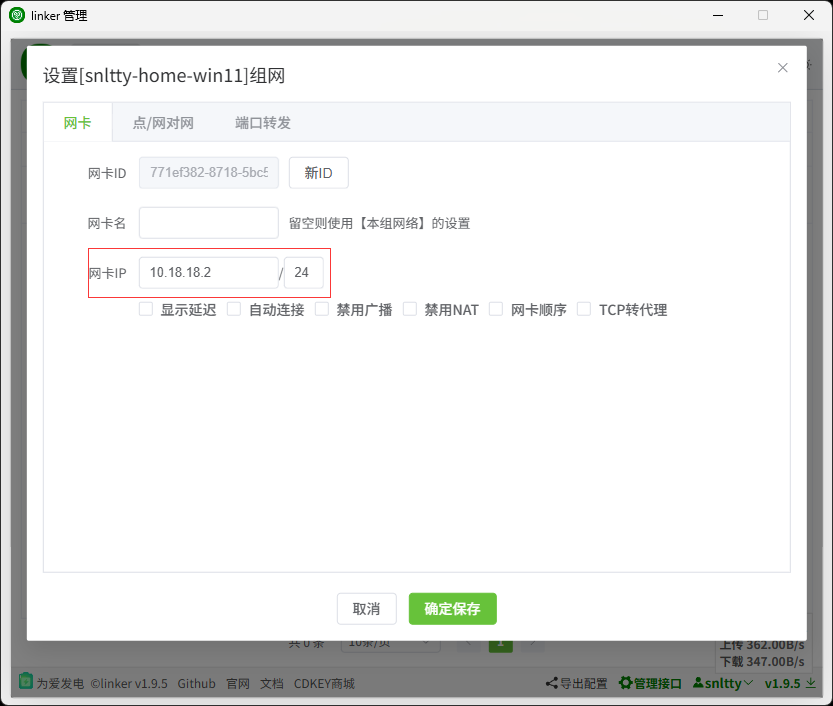
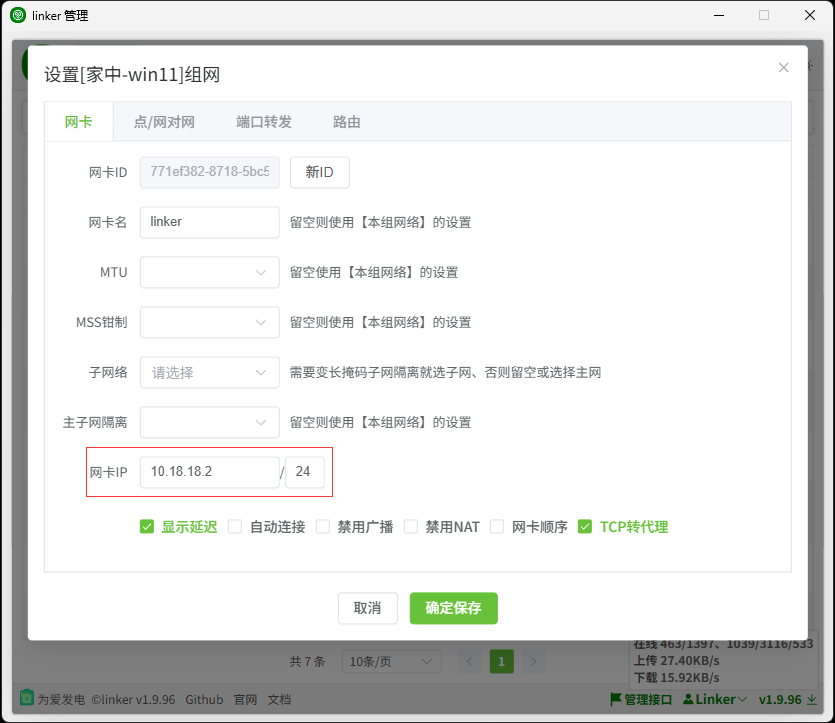
1.9.96

diff --git a/src/linker.web/src/views/components/tuntap/TuntapLease.vue b/src/linker.web/src/views/components/tuntap/TuntapLease.vue
@@ -13,7 +13,7 @@
                 <el-form-item label="MTU" prop="MTU">
                     <el-row class="w-100">
                         <el-col :span="10">
-                            <el-select v-model="state.ruleForm.Mtu" class="w-100">
+                            <el-select v-model="state.ruleForm.Mtu" class="w-100" :disabled="state.ruleForm.IP == '0.0.0.0'">
                                 <el-option :value="item.value" :label="item.label" v-for="(item,index) in state.mtus"></el-option>
                             </el-select>
                         </el-col>
@@ -23,7 +23,7 @@
                 <el-form-item label="MSS钳制" prop="MssFix">
                     <el-row class="w-100">
                         <el-col :span="10">
-                            <el-select v-model="state.ruleForm.MssFix" class="w-100">
+                            <el-select v-model="state.ruleForm.MssFix" class="w-100" :disabled="state.ruleForm.IP == '0.0.0.0'">
                                 <el-option :value="item.value" :label="item.label" v-for="(item,index) in state.msss"></el-option>
                             </el-select>
                         </el-col>
@@ -33,11 +33,11 @@
                 <el-form-item label="网络号" prop="IP">
                     <el-row class="w-100">
                         <el-col :span="13">
-                            <el-input v-trim v-model="state.ruleForm.IP" @change="handlePrefixLengthChange" />
+                            <el-input v-trim v-model="state.ruleForm.IP" :disabled="state.disabled" @change="handlePrefixLengthChange" />
                         </el-col>
                         <el-col :span="1" class="t-c">/</el-col>
                         <el-col :span="3">
-                            <el-input v-trim @change="handlePrefixLengthChange" v-model="state.ruleForm.PrefixLength" />
+                            <el-input v-trim @change="handlePrefixLengthChange" :disabled="state.disabled" v-model="state.ruleForm.PrefixLength" />
                         </el-col>
                         <el-col :span="1" class="t-c"></el-col>
                         <el-col :span="6">
@@ -58,7 +58,7 @@
                     </div>
                 </el-form-item>
                 <el-form-item label="主子网隔离" prop="VlsmStatus">
-                    <el-select v-model="state.ruleForm.VlsmStatus" class="w-14">
+                    <el-select v-model="state.ruleForm.VlsmStatus" class="w-14" :disabled="state.ruleForm.IP == '0.0.0.0'">
                         <el-option :value="item.value" :label="item.label" v-for="(item,index) in state.vlsms"></el-option>
                     </el-select>
                 </el-form-item>
@@ -67,7 +67,7 @@
                         <template v-for="(item,index) in state.ruleForm.Subs">
                             <el-row class="w-100 sub-item">
                                 <el-col :span="4" class="pdr-10">
-                                    <el-input v-trim v-model="item.Name"/>
+                                    <el-input v-trim v-model="item.Name" :disabled="state.ruleForm.IP == '0.0.0.0'"/>
                                 </el-col>
                                 <el-col :span="7">
                                     <el-input v-trim v-model="item.IP" disabled/>
@@ -77,9 +77,11 @@
                                     <el-input v-trim v-model="item.PrefixLength" disabled/>
                                 </el-col>
                                 <el-col :span="9" class="t-r">
-                                    <el-button type="danger" @click="handleDelSub(index)"><el-icon><Delete></Delete></el-icon></el-button>
-                                    <el-button type="info" @click="handleEditSub(index)"><el-icon><Edit></Edit></el-icon></el-button>
-                                    <el-button type="primary" @click="handleAddSub(index)"><el-icon><Plus></Plus></el-icon></el-button>
+                                    <template v-if="state.ruleForm.IP != '0.0.0.0'">
+                                        <el-button type="danger" @click="handleDelSub(index)"><el-icon><Delete></Delete></el-icon></el-button>
+                                        <el-button type="info" @click="handleEditSub(index)"><el-icon><Edit></Edit></el-icon></el-button>
+                                        <el-button type="primary" @click="handleAddSub(index)"><el-icon><Plus></Plus></el-icon></el-button>
+                                    </template>
                                 </el-col>
                             </el-row>
                         </template>
@@ -101,8 +103,8 @@
     <el-dialog v-model="state.showEdit" append-to=".app-wrap" title="选择子网" top="1vh" width="440">
         <div>
             <div class="head t-c mgb-1">
-                <el-select  v-model="state.prefixLength" class="w-20 mgl-1" @change="handleSubChange">
-                    <el-option v-for="value in state.prefixLengths" :value="value.value" :label="`/${value.value}、每段 : ${value.length}个IP`"></el-option>
+                <el-select  v-model="state.prefixLength" class="w-20 mgl-1" @change="handleSubChange" :disabled="state.disabled">
+                    <el-option v-for="value in state.prefixLengths" :value="value.value" :label="value.label"></el-option>
                 </el-select>
             </div>
             <el-table :data="state.subs.list" size="small" border height="400">
@@ -132,7 +134,7 @@
 import {getNetwork,addNetwork,calcNetwork, calcSubNetwork } from '@/apis/tuntap';
 import { ElMessage, ElMessageBox } from 'element-plus';
 import { computed, onMounted, reactive, ref, watch } from 'vue';
-import { Delete, Plus,Refresh,Edit } from '@element-plus/icons-vue'
+import { Delete, Plus,Refresh,Edit, MessageBox } from '@element-plus/icons-vue'
 export default {
     props: ['modelValue'],
     emits: ['change','update:modelValue'],
@@ -142,6 +144,7 @@ export default {
         const ruleFormRef = ref(null);
         const state = reactive({
             show: true,
+            disabled:computed(()=>state.ruleForm.Subs.filter(c=>c.IP != '0.0.0.0').length > 0),
             ruleForm: {
                 Name:'',
                 IP:'0.0.0.0',
@@ -202,7 +205,12 @@ export default {
 
             showEdit: false,
             editIndex : -1,
-            prefixLengths: Array.from({ length: 17 }, (_, i) => { return {value:32-i,length:1<<(32-(32-i))} }),
+            prefixLengths: Array.from({ length: 17 }, (_, i) => { 
+                return {
+                    value:32-i,
+                    label:`/${32-i}、每段 : ${(1<<(32-(32-i)))}个IP`
+                } 
+            }),
             prefixLength:29,
             subs:{
                 list:computed(c=>{
@@ -233,7 +241,12 @@ export default {
                 state.ruleForm.IP = res.IP;
                 state.ruleForm.PrefixLength = res.PrefixLength;
                 if(res.Subs.length == 0){
-                    res.Subs = [{Name:'子网1',IP:'0.0.0.0',PrefixLength:24}];
+                    res.Subs = [{Name:'子网1',IP:'0.0.0.0',PrefixLength:29}];
+                }else{
+                    const sub = res.Subs.filter(c=>c.IP != '0.0.0.0')[0];
+                    if(sub){
+                        state.prefixLength = sub.PrefixLength;
+                    }
                 }
                 state.ruleForm.Subs = res.Subs;
                 state.ruleForm.Mtu = res.Mtu;
@@ -262,6 +275,19 @@ export default {
             })
         }
         const handleClear = ()=>{
+            ElMessageBox.confirm('确定要清空吗？', '提示', {
+                confirmButtonText: '确定',
+                cancelButtonText: '取消',
+                type: 'warning'
+            }).then(() => {
+                state.ruleForm.IP = '0.0.0.0';
+                state.ruleForm.PrefixLength = 24;
+                state.ruleForm.Subs = [{Name:'子网1',IP:'0.0.0.0',PrefixLength:29}];
+                _calcNetwork();
+            }).catch(() => {
+            });
+        
+            /*
             addNetwork({Name:'',IP:'0.0.0.0',PrefixLength:24,Subs:[]}).then(()=>{
                 ElMessage.success('已操作');
                 _getNetwork();
@@ -269,14 +295,15 @@ export default {
                 console.log(err);
                 ElMessage.error('操作失败');
             });
+            */
         }
 
         const handleAddSub = (index)=>{
-            state.ruleForm.Subs.splice(index+1,0,{Name:'子网'+(state.ruleForm.Subs.length+1),IP:'0.0.0.0',PrefixLength:24});
+            state.ruleForm.Subs.splice(index+1,0,{Name:'子网'+(state.ruleForm.Subs.length+1),IP:'0.0.0.0',PrefixLength:29});
         }
         const handleDelSub = (index)=>{
             if(state.ruleForm.Subs.length <= 1){
-                state.ruleForm.Subs = [{Name:'子网1',IP:'0.0.0.0',PrefixLength:24}];
+                state.ruleForm.Subs = [{Name:'子网1',IP:'0.0.0.0',PrefixLength:29}];
                 return;
             }
             ElMessageBox.confirm('确定要删除吗？', '提示', {

diff --git a/src/linker.web/src/views/components/tuntap/TuntapIP.vue b/src/linker.web/src/views/components/tuntap/TuntapIP.vue
@@ -175,6 +175,7 @@ export default {
             json.NetworkName = state.ruleForm.NetworkName;
             json.Mtu = state.ruleForm.Mtu;
             json.MssFix = state.ruleForm.MssFix;
+            json.VlsmStatus = state.ruleForm.VlsmStatus;
 
             return json;
         }

diff --git a/src/linker.messenger.tuntap/client/TuntapConfigTransfer.cs b/src/linker.messenger.tuntap/client/TuntapConfigTransfer.cs
@@ -21,7 +21,7 @@ namespace linker.messenger.tuntap.client
         public TuntapVlsmStatus VlsmStatus => Info.VlsmStatus == TuntapVlsmStatus.None ? networkInfo.VlsmStatus : Info.VlsmStatus;
         public byte PrefixLength => networkInfo.IP.Equals(IPAddress.Any) ? Info.PrefixLength : networkInfo.PrefixLength;
 
-        public int SubCount => networkInfo.Subs.Count;
+        public int SubCount => networkInfo.Subs.Count(c => IPAddress.Any.Equals(c.IP) == false);
 
         public LeaseInfo Network => networkInfo;
 

diff --git a/src/linker.messenger.tuntap/client/TuntapApiController.cs b/src/linker.messenger.tuntap/client/TuntapApiController.cs
@@ -170,8 +170,8 @@ namespace linker.messenger.tuntap.client
         /// <returns></returns>
         public async Task<bool> Update(ApiControllerParamsInfo param)
         {
-
             TuntapInfo info = param.Content.DeJson<TuntapInfo>();
+
             //更新自己的
             if (info.MachineId == signInClientStore.Id)
             {

diff --git a/src/linker.doc.web/docs/4、通信功能/4.0、虚拟网卡/4、变长子网.md b/src/linker.doc.web/docs/4、通信功能/4.0、虚拟网卡/4、变长子网.md
@@ -1,0 +1,37 @@
+---
+sidebar_position: 4
+slug: /exchange/tuntap/vlsm
+---
+
+# 4、变长子网
+
+:::tip[说明]
+
+如果你一个分组里有很多客户端，比如A、B、C、D、E、F等等，你希望分为例如ABC、DEF等多个组，然后ABC、DEF组内可以互相通信，但ABC无法和DEF通信，那么你可以使用变长子网
+
+:::
+
+:::tip[配置]
+
+配置自动获取IP
+
+![Docusaurus Plushie](./img/vlsm1.png)
+
+添加一些子网，然后点编辑，选择子网的网段
+
+![Docusaurus Plushie](./img/vlsm2.png)  
+
+默认是/29每段8个ip，你可以选择不同的段长度，然后选择子网
+
+![Docusaurus Plushie](./img/vlsm3.png)
+
+然后给客户端配置时选择子网
+
+![Docusaurus Plushie](./img/vlsm5.png)
+
+
+当然，如果你配置了子网，那么还可以选择主网的设备是否可以和子网的设备进行通信(各子网之间是隔离的)
+
+![Docusaurus Plushie](./img/vlsm4.png)
+
+:::

diff --git a/src/linker.doc.web/docs/4、通信功能/4.0、虚拟网卡/5、MSS钳制.md b/src/linker.doc.web/docs/4、通信功能/4.0、虚拟网卡/5、MSS钳制.md
@@ -1,0 +1,23 @@
+---
+sidebar_position: 5
+slug: /exchange/tuntap/mssfix
+---
+
+# 5、MSS钳制
+
+:::tip[说明]
+
+MSS Clamping
+
+一般出现在linux，比如 A、B 两个客户端，B配置点对网，A访问B下局域网内的设备，虽然linker配置了MTU可能是1420，但有可能B那边的某个网关的MTU更小，可能是1380，那数据1420数据包就有可能被丢弃，导致无法通信
+
+有两种办法
+
+1. 将linker客户端的MTU调小，比如1380
+2. 配置MSS Clamping，即MSS钳制，可以选择自动计算，也可以选择1380或更小的值
+
+可以在动态获取ip配置本组网络的配置，也可以为某个客户端单独配置
+
+![Docusaurus Plushie](./img/mssfix.png)
+
+:::
